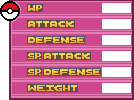
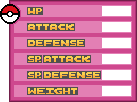
Asking for superior guidance

diff --git a/singlePlayer/index.html b/singlePlayer/index.html
@@ -27,12 +27,32 @@
         </div>
         <div id="player1Menu">
             <div class="menuTile">
-                <div class="scoreItem playerHp scoreItemAnimated" id="player1Hp" onclick="doStuff()">42</div>
+                <table id="player2Table" class="playerTable">
+                    <tr>
+                        <td></td><td>55</td>
+                    </tr>
+                    <tr>
+                        <td></td><td>55</td>
+                    </tr>
+                    <tr>
+                        <td></td><td>55</td>
+                    </tr>
+                    <tr>
+                        <td></td><td>55</td>
+                    </tr>
+                    <tr>
+                        <td></td><td>55</td>
+                    </tr>
+                    <tr>
+                        <td></td><td>55</td>
+                    </tr>
+                </table>
+                <!-- <div class="scoreItem playerHp scoreItemAnimated" id="player1Hp" onclick="doStuff()">42</div>
                 <div class="scoreItem playerAttack" id="player1Attack" onclick="doStuff()">43</div>
                 <div class="scoreItem playerDefense" id="player1Defense" onclick="doStuff()">44</div>
                 <div class="scoreItem playerSpecialAttack" id="player1SpAttack" onclick="doStuff()">45</div>
                 <div class="scoreItem playerSpecialDefense" id="player1SpDefense" onclick="doStuff()">46</div>
-                <div class="scoreItem playerWeight" id="player1Weight" onclick="doStuff()">47</div>
+                <div class="scoreItem playerWeight" id="player1Weight" onclick="doStuff()">47</div> -->
             </div>
         </div>
         <div class="deck" id="player1deck"></div>
@@ -46,12 +66,32 @@
 
         <div id="player2Menu">
             <div class="menuTile">
-                <div class="scoreItem playerHp" id="player2Hp">42</div>
+                <table id="player2Table" class="playerTable">
+                    <tr>
+                        <td></td><td>55</td>
+                    </tr>
+                    <tr>
+                        <td></td><td>55</td>
+                    </tr>
+                    <tr>
+                        <td></td><td>55</td>
+                    </tr>
+                    <tr>
+                        <td></td><td>55</td>
+                    </tr>
+                    <tr>
+                        <td></td><td>55</td>
+                    </tr>
+                    <tr>
+                        <td></td><td>55</td>
+                    </tr>
+                </table>
+                <!-- <div class="scoreItem playerHp" id="player2Hp">42</div>
                 <div class="scoreItem playerAttack" id="player2Attack">43</div>
                 <div class="scoreItem playerDefense" id="player2Defense">44</div>
                 <div class="scoreItem playerSpecialAttack" id="player2SpAttack">45</div>
                 <div class="scoreItem playerSpecialDefense" id="player2SpDefense">46</div>
-                <div class="scoreItem playerWeight" id="player2Weight" onclick="doStuff()">47</div>
+                <div class="scoreItem playerWeight" id="player2Weight" onclick="doStuff()">47</div> -->
             </div>
         </div>
         <div class="deck" id="player2deck"></div>

diff --git a/singlePlayer/styles.css b/singlePlayer/styles.css
@@ -125,6 +125,7 @@ body, html {
     width: 100%;
     height: 100%;
     image-rendering: pixelated;
+    z-index: 4;
 }
 
 .glowingTrunfo{
@@ -133,16 +134,16 @@ body, html {
 
 @keyframes glowingPokemon {
     0%{
-        -webkit-filter: drop-shadow(0px 0px 0 yellow) drop-shadow(-0px -0px 0 yellow);
-        filter: drop-shadow(0px 0px 0 yellow) drop-shadow(-0px -0px 0 yellow);
+        -webkit-filter: drop-shadow(0px 0px 0 rgb(253, 71, 253)) drop-shadow(-0px -0px 0 rgb(253, 71, 253));
+        filter: drop-shadow(0px 0px 0 rgb(253, 71, 253)) drop-shadow(-0px -0px 0 rgb(253, 71, 253));
     }
     50%{
-        -webkit-filter: drop-shadow(3px 3px 3px rgba(255,255,0,1)) drop-shadow(-3px -3px 3px rgba(255,255,0,1));
-        filter: drop-shadow(3px 3px 3px rgba(255,255,0,1)) drop-shadow(-3px -3px 3px rgba(255,255,0,1));
+        -webkit-filter: drop-shadow(.7vh .7vh .7vh rgba(253,71,253,1)) drop-shadow(-.7vh -.7vh .7vh rgba(253,71,253,1));
+        filter: drop-shadow(.7vh .7vh .7vh rgba(253,71,253,1)) drop-shadow(-.7vh -.7vh .7vh rgba(253,71,253,1));
     }
     100%{
-        -webkit-filter: drop-shadow(0px 0px 0 yellow) drop-shadow(-0px -0px 0 yellow);
-        filter: drop-shadow(0px 0px 0 yellow) drop-shadow(-0px -0px 0 yellow);
+        -webkit-filter: drop-shadow(0px 0px 0 rgb(253, 71, 253)) drop-shadow(-0px -0px 0 rgb(253, 71, 253));
+        filter: drop-shadow(0px 0px 0 rgb(253, 71, 253)) drop-shadow(-0px -0px 0 rgb(253, 71, 253));
     }
 }
 
@@ -182,8 +183,8 @@ body, html {
 }
 
 .menuTile {
-    width: calc(120 * 0.23vw);
-    height: calc(80 * 0.44vh);
+    width: 27.6vw;
+    height: 35.2vh;
 }
 
 .scoreItem {
@@ -330,4 +331,31 @@ body, html {
     background-size: 100% 100%;
     position: absolute;
     image-rendering: pixelated;
+}
+
+.playerTable{
+    position: absolute;
+    z-index: 4;
+    right: .1vw;
+    /* height: 35.2vh; */
+    width: 27.6vw;    
+    display: inline-table;  
+}
+
+
+.playerTable td:first-of-type{
+    background-color: purple;
+    /* background-color: transparent;    */
+    width: 19.5vw;  
+}
+
+.playerTable td{
+    background-color: red;
+    font-size: .6vw;
+    font-family: pixel;
+    text-align: center;
+    border-collapse: separate;
+    border-spacing: 1px;
+    width: 8.1vw; 
+    height: 2vh;
 }

diff --git a/singlePlayer/script.js b/singlePlayer/script.js
@@ -22,7 +22,7 @@ let { keyboardInputController } = await import("./keyboardInputController.js");
         if (rendered) {
             return;
         }
-        await sleep(1000);
+        await sleep(1);
         mountData();
     }
 
